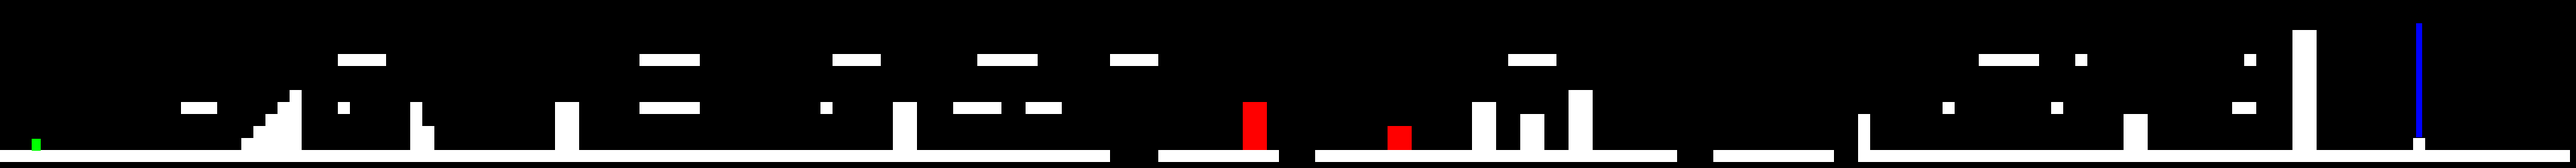
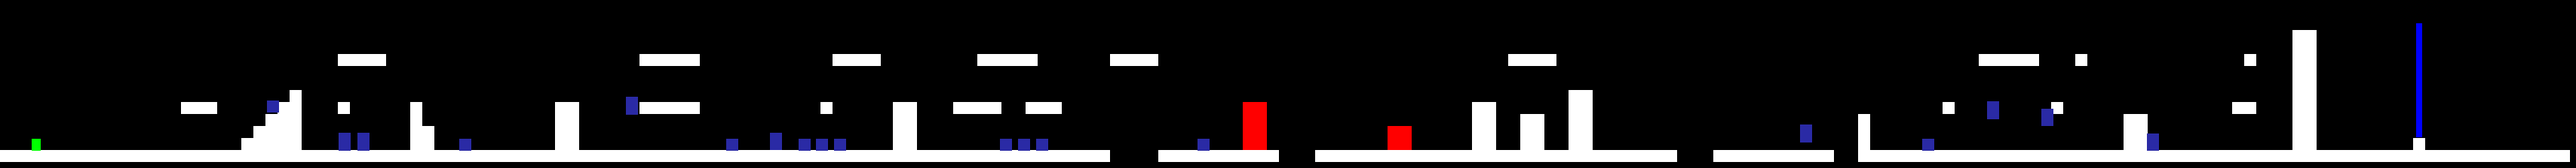
Add the magic bean to the json.

diff --git a/Collision_Data/main.cpp b/Collision_Data/main.cpp
@@ -24,11 +24,12 @@ JSONCONS_ALL_MEMBER_TRAITS(pipe_t, x, y, height, width, id, inside, go_id);
 JSONCONS_ALL_MEMBER_TRAITS(moving_lift_t, x, y, width, height, axe, first_limit, second_limit, initial_velocity);
 JSONCONS_ALL_MEMBER_TRAITS(balanced_lift_t, x_first, y_first, width_first, height_first, x_second, y_second, width_second, height_second, total_length, max_x);
 JSONCONS_ALL_MEMBER_TRAITS(enemy, x, y, height, width);
+JSONCONS_ALL_MEMBER_TRAITS(magic_bean_t, x, y, height, width, x_exit, y_exit);
 
 int main(int argc, char* argv[]) {
 	if (argc != 2) return 0;
 
-	std::string level_path = "\\Niveau_1_1";
+	std::string level_path = "\\Niveau_2_1";
 	std::string sprite_path = "\\Sprite";
 	std::string base_path = argv[1];
 	std::string level_image_path = base_path + level_path + "\\level.png";
@@ -38,6 +39,7 @@ int main(int argc, char* argv[]) {
 	std::string pipe_textures_path = base_path + sprite_path + "\\Pipes";
 	std::string enemies_textures_path = base_path + sprite_path + "\\Enemies";
 	std::string platform_textures_path = base_path + sprite_path + "\\Platforms";
+	std::string magicBeans_textures_path = base_path + sprite_path + "\\MagicBean";
 	std::map<int, type_enemy> maptypenemy;
 	
 	// Fetch level image.
@@ -180,7 +182,6 @@ int main(int argc, char* argv[]) {
 
 	// Platforms code:
 	// We detect all the platform first and after that we try to put them to the right type.
-
 	std::vector<collision_t> raw_platforms;
 	for (const cv::Mat& platform_texture : platforms_textures) {
 		cv::Mat hits;
@@ -286,6 +287,55 @@ int main(int argc, char* argv[]) {
 		normal_lifts.push_back(moving_lift_t{ lift.x, lift.y, lift.width, lift.height, -1, 0, 0, 0 });
 	}
 
+	// We now check if their is a magic beans inside the level.
+	std::vector<cv::Mat> magicBeans_textures = get_textures(magicBeans_textures_path, "sprite");
+	std::vector<magic_bean_t> magic_beans;
+	magic_bean_t magic_bean{};
+	for (const cv::Mat& magicBeans_texture : magicBeans_textures) {
+		cv::Mat collision_hits;
+		cv::matchTemplate(level_image, magicBeans_texture, collision_hits, cv::TM_CCOEFF_NORMED);
+		for (int x = 0; x < collision_hits.rows - 8; x++)
+			for (int y = 0; y < collision_hits.cols - 8; y++)
+				if (collision_hits.at<float>(x, y) >= 0.85f)
+				{
+					magic_beans.push_back(magic_bean_t{ x, y, magicBeans_texture.rows, magicBeans_texture.cols , -1, -1});
+				}
+	}
+
+	if(!magic_beans.empty()) // We have found a magic beans inside the level !
+	{
+		std::cout << "Slt je suis la !" << std::endl;
+		int height = -1;
+		int x_min = 100000;
+		int x_max = -1;
+		for(auto bean : magic_beans)
+		{
+			if(x_min >  bean.x)
+			{
+				x_min = bean.x;
+			}
+			if(x_max < bean.x)
+			{
+				x_max = bean.x;
+				height = bean.height;
+			}
+		}
+		magic_bean = magic_bean_t{ x_min, magic_beans.at(0).y, magic_beans.at(0).width, (x_max - x_min + height), -1, -1 };
+		// Now we have to find the exit !
+		std::vector<cv::Mat> exit_textures = get_textures(magicBeans_textures_path, "downArrow");
+		for (const cv::Mat& exit_texture : exit_textures) {
+			cv::Mat collision_hits;
+			cv::matchTemplate(level_image, exit_texture, collision_hits, cv::TM_CCOEFF_NORMED);
+			for (int x = 0; x < collision_hits.rows - 8; x++)
+				for (int y = 0; y < collision_hits.cols - 8; y++)
+					if (collision_hits.at<float>(x, y) >= 0.85f)
+					{
+						magic_bean.x_exit = x + (exit_texture.cols / 2);
+						magic_bean.y_exit = y + (exit_texture.rows / 2);
+					}
+		}
+	}
+
 	/* Print out collisions images. */ {
 		// Print out the unique collision image and the filled collision image.
 		cv::Mat collision_merged_final_image(level_image.rows, level_image.cols, level_image.type(), cv::Scalar(0, 0, 0));
@@ -341,6 +391,10 @@ int main(int argc, char* argv[]) {
 		json_content["static"]["spawn"]["x"] = spawn.x;
 		json_content["static"]["spawn"]["y"] = spawn.y;
 		json_content["static"]["spawn"]["height"] = spawn.height;
+		if(magic_bean.x >= 0)
+		{
+			json_content["static"]["magicBean"] = magic_bean;
+		}
 		json_content["dynamic"]["platform"]["moving"] = normal_lifts;
 		json_content["dynamic"]["platform"]["balanced"] = balanced_lifts;
 		json_content["dynamic"]["enemies"] = enemy_raw;

diff --git a/Collision_Data/platforms.h b/Collision_Data/platforms.h
@@ -32,8 +32,15 @@ struct balanced_lift_t
 	int max_x;
 };
 
-// TODO Finish the struct.
-struct flimsy_lift
+
+// The structures for the Magic Bean
+struct magic_bean_t
 {
-	
+	int x;
+	int y;
+	int width;
+	int height;
+	int x_exit;
+	int y_exit;
 };
+
